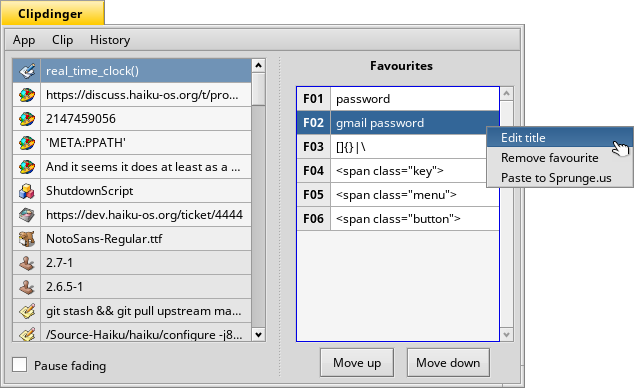
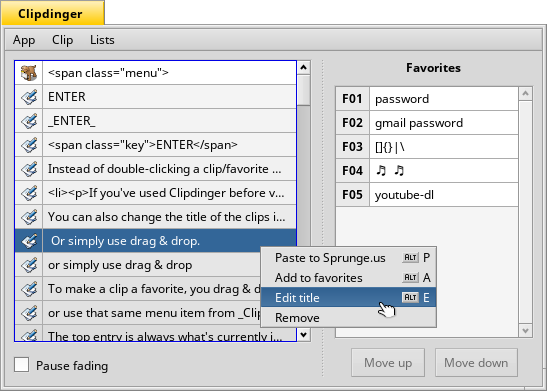
Preparation for v1.0 release
* Save some space in EditWindow for potentially larger translations of the
  info text.
* En/Disable favourites related menu items when the favourites list is emtpy.
* Updated catkeys.
* Updated documentation.

diff --git a/ReadMe.html b/ReadMe.html
@@ -111,19 +111,19 @@ for <a href="http://www.haiku-os.org">Haiku</a><br />
 <div align = "center">
 <img src="./images/clipdinger.png" alt="Clipdinger main window" />
 </div>
-<p>To the left is a history of your past clippings (empty, of course, when started for the first time). For easier orientation, the icon of the app that a clip was copied from is drawn to the left of the text. The top entry is always what's currently in the clipboard. Hover your mouse pointer over an entry for a tool tip with the time and date when a clip was added.</p>
-<p>If you have the <span class="menu">Fade history entries over time</span> option activated, there'll also be a checkbox <span class="menu">Pause fading</span> below the history list. You find more on that farther down, where Clipdinger's settings are discussed.</p>
+<p>To the left is a history of your past clippings. For easier orientation, the icon of the app that a clip was copied from is drawn to the left of the text. The top entry is always what's currently in the clipboard. Hover your mouse pointer over an entry for a tool tip with the time and date when a clip was added.</p>
+<p>If you have the <span class="menu">Fade history entries over time</span> option activated, there'll also be a checkbox <span class="menu">Pause fading</span> below the history list. You find more on that further down, where Clipdinger's settings are discussed.</p>
 
-<p>To the right is a list of saved favorites. You right-click on an entry in the history to the left, and choose <span class="menu">Add to favorites</span> to make a clipping a favorite. The first 12 entries have automatically an <span class="key">F-key</span> assigned for even quicker pasting of your most used clippings.</p>
-<p>You can adjust the size of history/favorites by grabbing the dotted line between them. You can also completely collapse one of those lists. The <span class="key">F-keys</span> will still work, even if your favorites are collapsed.</p>
-<p>The <span class="button">Move up</span> and <span class="button">Move down</span> buttons allow for re-ordering the currently selected favorite.<br />
-<span class="key">DEL</span> or choosing <span class="menu">Remove favorite</span> from the context menu eliminates an entry. <span class="menu">Edit title</span> let's you choose another title for it. By default, the contents of the clip is displayed, just like for the history list on the left.</p>
-<p>You can quickly switch between history and favorites lists with <span class="key">CursorRight/Left</span>.</p>
+<p>To the right is a list of saved favorites. To make a clip a favorite, you drag &amp; drop a clip from the history on the left into the favorites list to the right. You can also right-click on an entry in the history and choose <span class="menu">Add to favorites</span> or use that same menu item from <span class="menu">Clip</span> menu in the menu bar. The first 12 entries have automatically an <span class="key">F-key</span> assigned for even quicker pasting of your most used clippings.</p>
+<p>You can adjust the size of the history/favorites lists by grabbing the dotted line between them. You can also completely collapse one of those lists. The <span class="key">F-keys</span> will still work, even if your favorites are collapsed.</p>
+<p>The <span class="button">Move up</span> and <span class="button">Move down</span> buttons allow for re-ordering the currently selected favorite.  Or simply use drag &amp; drop.<br />
+<span class="key">DEL</span> or choosing <span class="menu">Remove favorite</span> from the (context) menu eliminates an entry. <span class="menu">Edit title</span> lets you choose another title for it. By default, the contents of the clip is displayed. You can also change the title of the clips in the history, but it's more useful for the more permanent favorites.</p>
+<p>You can quickly switch between the history and favorites lists with <span class="key">CursorRight/Left</span>.</p>
 
 <h2>
 <a href="#"><img src="images/up.png" style="border:none;float:right" alt="index" /></a>
 <a id="monitor" name="monitor">Clipboard monitor</a></h2>
-<p>You can open the <span class="menu">Clipboard monitor</span> from the <span class="menu">App</span> menu. It simply shows the current contents of the clipboard, which helps keeping track if you have to continuously switch between some clips from the history/favorites.<br />
+<p>You can open the <span class="menu">Clipboard monitor</span> from the <span class="menu">App</span> menu. It simply shows the current contents of the  clipboard, which helps keeping track if you have to continuously switch between some clips from the history/favorites.<br />
 The Clipboard monitor is supposed be used as a replicant on the Desktop.</p>
 <div align = "center">
 <img src="./images/clipboard-monitor.png" alt="Clipboard monitor as replicant" />
@@ -135,14 +135,14 @@ The Clipboard monitor is supposed be used as a replicant on the Desktop.</p>
 <h2>
 <a href="#"><img src="images/up.png" style="border:none;float:right" alt="index" /></a>
 <a id="settings" name="settings">Settings</a></h2>
-<p>This is the settings window, summoned with <span class="menu">Settings...</span> from the <span class="menu">App</span> menu:</p>
+<p>This is the settings window, opened with <span class="menu">Settings...</span> from the <span class="menu">App</span> menu:</p>
 <div align = "center">
 <img src="./images/clipdinger-settings.png" alt="Clipdinger settings" />
 </div>
 <p>At the top of the settings window, you can set the number of entries in the history (the default is 100).<br />
 Keep in mind that every clipping is kept in memory and if you copy many large blocks of text, you may clog up your memory. Though, for everyday use, where clippings are seldom larger than a few KiBs at most, having several dozen entries in the history shouldn't tax memory noticeably.</p>
 <p>Once the limit of the history is reached, the oldest entry is removed automatically to make room for the new clipping.</p>
-<p>You can remove an entry by selecting it and pressing <span class="key">DEL</span>  or choose <span class="menu">Remove clip</span> from the context menu. You remove the complete clipboard history with <span class="menu">Clear history</span> from the <span class="menu">History</span> menu.</p>
+<p>You can remove an entry by selecting it and pressing <span class="key">DEL</span>  or choose <span class="menu">Remove</span> from the (context) menu. You remove the complete clipboard history with <span class="menu">Clear history</span> from the <span class="menu">Lists</span> menu.</p>
 <p><span class="menu">Auto-start Clipdinger</span> controls if Clipdinger will be started automatically at every boot-up.</p>
 <p><span class="menu">Auto-paste</span> will put the clipping you've chosen via double-click or <span class="key">RETURN</span> into the window that was active before you have summoned Clipdinger.</p>
 <p>The other settings belong to the fading feature: When the checkbox <span class="menu">Fade history entries over time</span> is active, entries get darker as time ticks on. You can set the interval that entries are being tinted (<span class="menu">Delay</span>) and by how much they are tinted (<span class="menu">Steps</span>). The third slider sets the <span class="menu">Max. tint level</span>, i.e. how dark an entry can get.<br />
@@ -152,11 +152,12 @@ Below the sliders is a summary of your setting in plain English.</p>
 <a href="#"><img src="images/up.png" style="border:none;float:right" alt="index" /></a>
 <a id="tips" name="tips">Tips &amp; Tricks</a></h2>
 <ul>
-<li><p>If you've used Clipdinger before v0.5.5, you can now remove the link to it in the <span class="path">/boot/home/config/settings/boot/launch/</span>  folder and use the new setting to auto-start instead.</p></li> 
+<li><p>Instead of double-clicking a clip/favorite or hitting <span class="key">RETURN</span> to paste it, you can also drag &amp; drop it into applications or onto the Desktop. That's useful in some situations, especially since it leaves the Clipdinger window open.</p></li>
 <li><p>Changes in the settings window can be viewed live in the main window. To find the right fading settings for you, it's best to keep working normally for some time to fill the history and then just play around with the sliders until you're satisfied.</p></li>
-<li><p>Clipdinger's <span class="menu">Auto-paste</span> feature can be a bit tricky: It doesn't know in which application's window you pressed <span class="key">SHIFT</span> <span class="key">ALT</span> <span class="key">V</span> for it to pop up. With activated auto-paste, it simply pastes into last window that was active before you hit <span class="key">ENTER</span> or double-clicked an entry. So, avoid detours...</p></li>
+<li><p>Clipdinger's <span class="menu">Auto-paste</span> feature can be a bit tricky: It doesn't know in which application's window you pressed <span class="key">SHIFT</span> <span class="key">ALT</span> <span class="key">V</span> for it to pop up. With activated auto-paste, it simply pastes into last window that was active before you hit <span class="key">RETURN</span> or double-clicked an entry. So, avoid detours...</p></li>
 <li><p>If you want to back-up Clipdinger's settings, history or favorites, or have the need to delete one or all of these files, you'll find them under <span class="path">/boot/home/config/settings/Clipdinger/</span>.</p></li>
 <li><p>If the replicant of the Clipboard monitor unexpectedly gives you grief (or any replicant for that matter), you can remove all replicants on the Desktop by deleting <span class="path">/boot/home/config/settings/Tracker/tracker_shelf</span>.</p></li>
+<li><p>If you've used Clipdinger before v0.5.5, you can now remove the link to it in the <span class="path">/boot/home/config/settings/boot/launch/</span>  folder and use the new setting to auto-start instead.</p></li> 
 </ul>
 
 <h2>
@@ -180,6 +181,21 @@ Also, thanks to everyone that contributed translations for Clipdinger.</p>
 <a href="#"><img src="images/up.png" style="border:none;float:right" alt="index" /></a>
 <a id="history" name="history">History</a></h2>
 
+<p><b>1.0</b> - <i>24-12-2016:</i></p>
+<ul>
+<li>Add clips to favorites and re-ordering favorites with drag &amp; drop.</li>
+<li>Drag &amp; drop clips and favorites into other apps.</li>
+<li>Made history clips titles editable as well.</li>
+<li>Made the GUI unambiguous. There's only ever one clip shown as active.</li>
+<li>Added menu items that apply to clips/favorites, re-ordered context menus.</li>
+<li>Renamed menu to "Lists" and added item to "Clear favorites".</li>
+<li>Bug fix: Fixed drawing errors of split view handle on resize.</li>
+<li>Bug fix: Fixed issues when starting without settings file.</li>
+<li>Bug fix: Fixed crash when trying to paste to sprunge.us with no selection.</li>
+<li>Bug fix: Put formerly 2nd clip into clipboard when 1st was removed.</li>
+<li>Bug fix: Correctly show GUI controls availablity (e.g. the move buttons).</li>
+</ul>
+
 <p><b>0.5.5</b> - <i>28-11-2016:</i></p>
 <ul>
 <li>Added auto-start setting.</li>
@@ -191,7 +207,7 @@ Also, thanks to everyone that contributed translations for Clipdinger.</p>
 <li>Bug fix: Deleting clips with the <span class="key">DEL</span> key was broken.</li>
 <li>Bug fix: When Clipdinger is launched, add existing clipboard contents to the history.</li>
 <li>Bug fix: Explanatory text in settings window didn't show 4-digit minutes value and didn't show the correct values when first opened.</li>
-<li>Bug fix: The time a clip was added was put in too small a variable (32bit), now it's 64bit. Old history clips may experience color problems. Use _Clear history_ in that case.</li>
+<li>Bug fix: The time a clip was added was put in too small a variable (32bit), now it's 64bit. Old history clips may experience color problems. Use <span class="menu">Clear history</span> in that case.</li>
 </ul>
 
 <p><b>0.5.4</b> - <i>12-06-2016:</i></p>

diff --git a/MainWindow.cpp b/MainWindow.cpp
@@ -162,7 +162,7 @@ MainWindow::MessageReceived(BMessage* message)
 		{
 			if (GetHistoryActiveFlag() && !fHistory->IsEmpty()) {
 				int32 index = fHistory->CurrentSelection();
-				if (index < 0)
+				if (index < 0 || fHistory->CountItems() == 1)
 					break;
 				fHistory->RemoveItem(index);
 
@@ -276,6 +276,7 @@ MainWindow::MessageReceived(BMessage* message)
 				messenger.SendMessage(&msg);
 			} else
 				fFavorites->RenumberFKeys();
+			_UpdateControls();
 			break;
 		}
 		case FAV_DOWN:
@@ -499,29 +500,29 @@ MainWindow::_BuildLayout()
 	menuBar->AddItem(menu);
 
 	menu = new BMenu(B_TRANSLATE("Clip"));
-	item = new BMenuItem(B_TRANSLATE("Paste to Sprunge.us"),
+	fMenuPaste = new BMenuItem(B_TRANSLATE("Paste to Sprunge.us"),
 		new BMessage(PASTE_SPRUNGE), 'P');
-	menu->AddItem(item);
+	menu->AddItem(fMenuPaste);
 	BMessage* message = new BMessage(FAV_ADD);
 	message->AddInt32("clipdinger_command", FAV_ADD);
 	fMenuAdd = new BMenuItem(B_TRANSLATE("Add to favorites"),
 		message, 'A');
 	menu->AddItem(fMenuAdd);
-	item = new BMenuItem(B_TRANSLATE("Edit title"),
+	fMenuEdit = new BMenuItem(B_TRANSLATE("Edit title"),
 		new BMessage(EDIT_TITLE), 'E');
-	menu->AddItem(item);
-	item = new BMenuItem(B_TRANSLATE("Remove"),
+	menu->AddItem(fMenuEdit);
+	fMenuDelete = new BMenuItem(B_TRANSLATE("Remove"),
 		new BMessage(DELETE));
-	menu->AddItem(item);
+	menu->AddItem(fMenuDelete);
 	menuBar->AddItem(menu);
 
 	menu = new BMenu(B_TRANSLATE("Lists"));
 	item = new BMenuItem(B_TRANSLATE("Clear clip history"),
 		new BMessage(CLEAR_HISTORY));
 	menu->AddItem(item);
-	item = new BMenuItem(B_TRANSLATE("Clear favorites"),
+	fMenuClearFav = new BMenuItem(B_TRANSLATE("Clear favorites"),
 		new BMessage(CLEAR_FAVORITES));
-	menu->AddItem(item);
+	menu->AddItem(fMenuClearFav);
 	menuBar->AddItem(menu);
 
 	// The lists
@@ -888,6 +889,18 @@ MainWindow::_UpdateControls()
 	bool active = GetHistoryActiveFlag();
 	int32 selection = fFavorites->CurrentSelection();
 	int32 count = fFavorites->CountItems();
+
+	if (active == false && count == 0) {
+		fMenuDelete->SetEnabled(false);
+		fMenuEdit->SetEnabled(false);
+		fMenuPaste->SetEnabled(false);
+	}
+	if (active) {
+		fMenuDelete->SetEnabled(true);
+		fMenuEdit->SetEnabled(true);
+		fMenuPaste->SetEnabled(true);
+	}
+	fMenuClearFav->SetEnabled((count > 0 ) ? true : false);
 
 	if (selection < 0)
 		count = -1;

diff --git a/EditWindow.cpp b/EditWindow.cpp
@@ -79,7 +79,7 @@ EditWindow::_BuildLayout()
 	// Title
 	fTitleControl = new BTextControl("title", B_TRANSLATE("Title:"),
 		fOriginalTitle, NULL);
-	fTitleControl->SetExplicitMinSize(BSize(250.0, B_SIZE_UNSET));
+	fTitleControl->SetExplicitMinSize(BSize(300.0, B_SIZE_UNSET));
 
 	// Info
 	BFont infoFont(*be_plain_font);
@@ -95,6 +95,12 @@ EditWindow::_BuildLayout()
 	infoText->SetText(B_TRANSLATE(
 		"Leave title empty to return to original title."));
 
+	font_height fheight;
+	infoFont.GetHeight(&fheight);
+	infoText->SetExplicitMinSize(BSize(B_SIZE_UNSET,
+		(fheight.ascent + fheight.descent + fheight.leading) * 2.0));
+	infoText->SetExplicitMaxSize(BSize(B_SIZE_UNLIMITED, B_SIZE_UNSET));
+
 	// Buttons
 	BButton* cancel = new BButton("cancel", B_TRANSLATE("Cancel"),
 		new BMessage(CANCEL));
@@ -103,7 +109,7 @@ EditWindow::_BuildLayout()
 
 	static const float spacing = be_control_look->DefaultItemSpacing();
 	BLayoutBuilder::Group<>(this, B_VERTICAL)
-		.AddGroup(B_VERTICAL)
+		.AddGroup(B_VERTICAL, 0)
 			.SetInsets(spacing)
 			.Add(fTitleControl)
 			.Add(infoText)

diff --git a/Constants.h b/Constants.h
@@ -13,7 +13,7 @@
 
 static const char* kApplicationSignature = "application/x-vnd.humdinger-clipdinger";
 
-static const char kVersion[] = "v0.5.5";
+static const char kVersion[] = "v1.0";
 static const char kCopyright[] = "2015-2016";
 static const char kSettingsFolder[] = "Clipdinger";
 static const char kSettingsFile[] = "Clipdinger_settings";

diff --git a/MainWindow.h b/MainWindow.h
@@ -86,6 +86,10 @@ private:
 	BButton*		fButtonUp;
 	BButton*		fButtonDown;
 	BMenuItem*		fMenuAdd;
+	BMenuItem*		fMenuEdit;
+	BMenuItem*		fMenuDelete;
+	BMenuItem*		fMenuPaste;
+	BMenuItem*		fMenuClearFav;
 
 	EditWindow*		fEditWindow;
 };

diff --git a/Readme.md b/Readme.md
@@ -16,22 +16,22 @@ Clipdinger starts minimized, because it sits in the background and just monitors
 
 ![screenshot](./images/clipdinger.png)
 
-To the left is a history of your past clippings (empty, of course, when started for the first time). For easier orientation, the icon of the app that a clip was copied from is drawn to the left of the text. The top entry is always what's currently in the clipboard. Hover your mouse pointer over an entry for a tool tip with the time and date when a clip was added.
+To the left is a history of your past clippings. For easier orientation, the icon of the app that a clip was copied from is drawn to the left of the text. The top entry is always what's currently in the clipboard. Hover your mouse pointer over an entry for a tool tip with the time and date when a clip was added.
 
-If you have the _Fade history entries over time_ option activated, there'll also be a checkbox _Pause fading_ below the history list. You find more on that farther down, where Clipdinger's settings are discussed.
+If you have the _Fade history entries over time_ option activated, there'll also be a checkbox _Pause fading_ below the history list. You find more on that further down, where Clipdinger's settings are discussed.
 
-To the right is a list of saved favorites. You right-click on an entry in the history to the left, and choose Add to favorites to make a clipping a favorite. The first 12 entries have automatically an _F-key_ assigned for even quicker pasting of your most used clippings.
+To the right is a list of saved favorites. To make a clip a favorite, you drag & drop a clip from the history on the left into the favorites list to the right. You can also right-click on an entry in the history and choose _Add to favorites_ or use that same menu item from _Clip_ menu in the menu bar. The first 12 entries have automatically an _F-key_ assigned for even quicker pasting of your most used clippings.
 
-You can adjust the size of history/favorites by grabbing the dotted line between them. You can also completely collapse one of those lists. The _F-keys_ will still work, even if your favorites are collapsed.
+You can adjust the size of the history/favorites lists by grabbing the dotted line between them. You can also completely collapse one of those lists. The _F-keys_ will still work, even if your favorites are collapsed.
 
-The _Move up_ and _Move down_ buttons allow for re-ordering the currently selected favorite.
-_DEL_ or choosing _Remove favorite_ from the context menu eliminates an entry. _Edit title_ let's you choose another title for it. By default, the contents of the clip is displayed, just like for the history list on the left.
+The _Move up_ and _Move down_ buttons allow for re-ordering the currently selected favorite. Or simply use drag & drop.
+_DEL_ or choosing _Remove favorite_ from the (context) menu eliminates an entry. _Edit title_ lets you choose another title for it. By default, the contents of the clip is displayed. You can also change the title of the clips in the history, but it's more useful for the more permanent favorites.
 
-You can quickly switch between history and favorites lists with _CursorRight/Left_.
+You can quickly switch between the history and favorites lists with _CursorRight/Left_.
 
 ### Clipboard monitor
 
-You can open the _Clipboard monitor_ from the _App_ menu. It simply shows the current contents of theclipboard, which helps if you have to continuously switch between some clips from the history/favorites.
+You can open the _Clipboard monitor_ from the _App_ menu. It simply shows the current contents of the clipboard, which helps if you have to continuously switch between some clips from the history/favorites.
 The Clipboard monitor is supposed be used as a replicant on the Desktop.
 
 ![screenshot](./images/clipboard-monitor.png)
@@ -44,7 +44,7 @@ As a replicant the Clipboard monitor doesn't need a running Clipdinger to work. 
 
 ### Settings
 
-This is the settings window, summoned with _Settings..._ from the _App_ menu:
+This is the settings window, opened with _Settings..._ from the _App_ menu:
 
 ![screenshot](./images/clipdinger-settings.png)
 
@@ -53,7 +53,7 @@ Keep in mind that every clipping is kept in memory and if you copy many large bl
 
 Once the limit of the history is reached, the oldest entry is removed automatically to make room for the new clipping.
 
-You can remove an entry by selecting it and pressing _DEL_ or choose _Remove clip_ from the context menu. You remove the complete clipboard history with _Clear history_ from the _History_ menu.
+You can remove an entry by selecting it and pressing _DEL_ or choose _Remove_ from the (context) menu. You remove the complete clipboard history with _Clear history_ from the _Lists_ menu.
 
 _Auto-start Clipdinger_ controls if Clipdinger will be started automatically at every boot-up.
 
@@ -66,12 +66,12 @@ If you leave your computer or just know that you won't do any copy&paste for a l
 
 ### Tips & Tricks
 
-*   If you've used Clipdinger before v0.5.5, you can now remove the link to it in the `/boot/home/config/settings/boot/launch/` folder and use the new setting to auto-start instead.
+*	Instead of double-clicking a clip/favorite or hitting _RETURN_ to paste it, you can also drag & drop it into applications or onto the Desktop. That's useful in some situations, especially since it leaves the Clipdinger window open.
 *   Changes in the settings window can be viewed live in the main window. To find the right fading settings for you, it's best to keep working normally for some time to fill the history and then just play around with the sliders until you're satisfied.
-*   Clipdinger's _Auto-paste_ feature can be a bit tricky: It doesn't know in which window you pressed _SHIFT_ + _ALT_ + _V_ for it to pop up. With activated auto-paste, it simply pastes into last window that was active before you hit _ENTER_ or double-clicked an entry. So, avoid detours...
+*   Clipdinger's _Auto-paste_ feature can be a bit tricky: It doesn't know in which window you pressed _SHIFT_ + _ALT_ + _V_ for it to pop up. With activated auto-paste, it simply pastes into last window that was active before you hit _RETURN_ or double-clicked an entry. So, avoid detours...
 *   If you want to back-up Clipdinger's settings, history or favorites, or have the need to delete one or all of these files, you'll find them under `/boot/home/config/settings/Clipdinger/`.
 *	If the replicant of the Clipboard monitor unexpectedly gives you grief (or any replicant for that matter), you can remove all replicants on the Desktop by deleting `/boot/home/config/settings/Tracker/tracker_shelf`.
-
+*   If you've used Clipdinger before v0.5.5, you can now remove the link to it in the `/boot/home/config/settings/boot/launch/` folder and use the new setting to auto-start instead.
 
 ### Download
 
@@ -88,6 +88,21 @@ Even more thanks go to Rene Gollent, who pointed out many shortcomings in my ama
 Also, thanks to everyone that contributed translations for Clipdinger.
 
 ### History
+
+
+**1.0** - _24-12-2016:_
+
+*	Add clips to favorites and re-ordering favorites with drag & drop.
+*	Drag & drop clips and favorites into other apps.
+*	Made history clips titles editable as well.
+*	Made the GUI unambiguous. There's only ever one clip shown as active.
+*	Added menu items that apply to clips/favorites, re-ordered context menus.
+*	Renamed menu to "Lists" and added item to "Clear favorites".
+*	Bug fix: Fixed drawing errors of split view handle on resize.
+*	Bug fix: Fixed issues when starting without settings file.
+*	Bug fix: Fixed crash when trying to paste to sprunge.us with no selection.
+*	Bug fix: Put formerly 2nd clip into clipboard when 1st was removed.
+*	Bug fix: Correctly show GUI controls availablity (e.g. the move buttons).
 
 **0.5.5** - _28-11-2016:_
 
